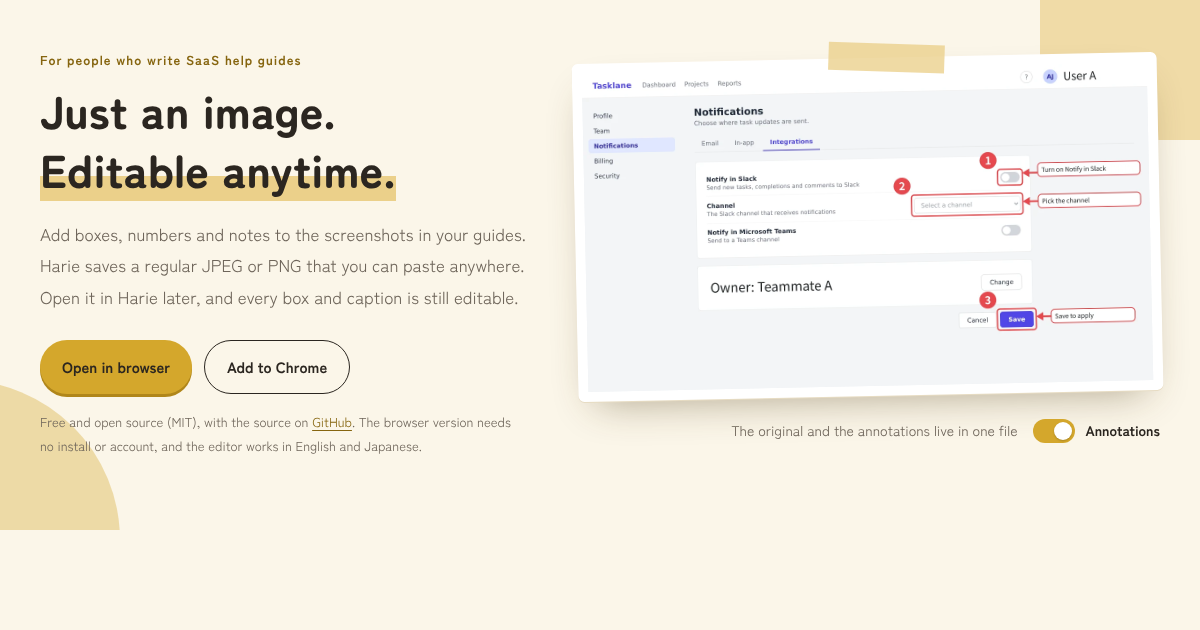
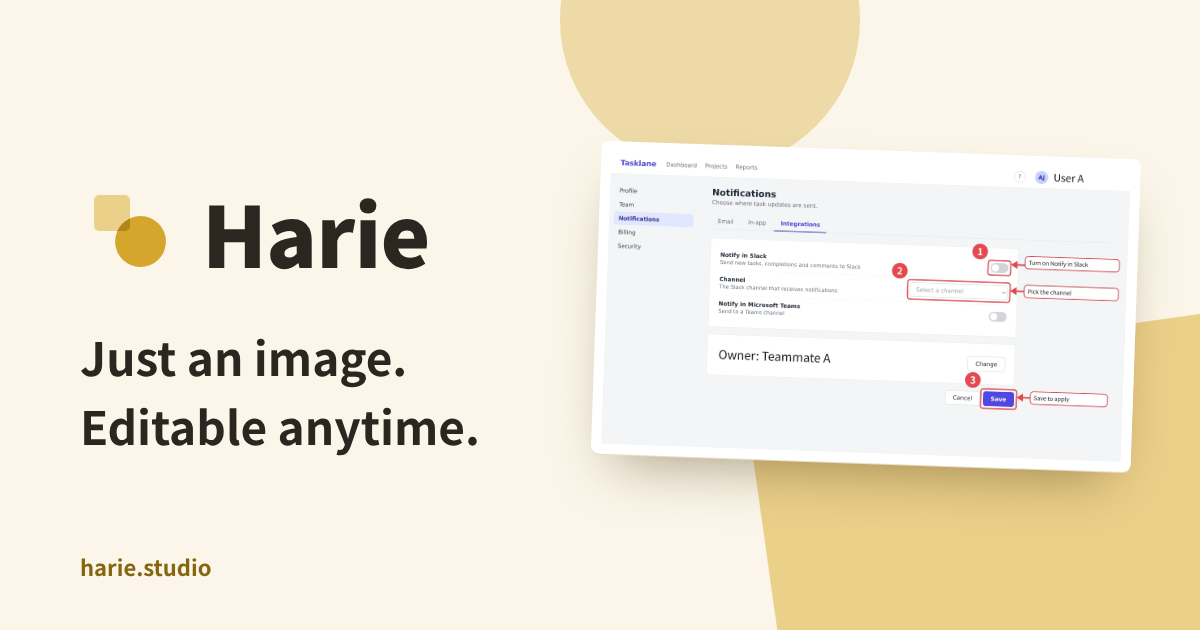
feat(site): OGP 画像を Chrome ウェブストアのプロモーション タイルのテイストで作り直す
ロゴとキャッチコピー、注釈を付けた見本の画面を 1200×630 に置き、pnpm --filter @harie/site og で作り直せるようにする。og:image の大きさと代替テキストも付ける。

Claude-Session: https://claude.ai/code/session_01GF6HAVfDLPu3oGNENvnbi8

diff --git a/apps/site/src/index.html b/apps/site/src/index.html
@@ -21,6 +21,9 @@
     />
     <meta property="og:url" content="https://harie.studio/" />
     <meta property="og:image" content="https://harie.studio/assets/og.png" />
+    <meta property="og:image:width" content="1200" />
+    <meta property="og:image:height" content="630" />
+    <meta property="og:image:alt" content="Harie のロゴと「ただの画像なのに、何度でも直せる。」、注釈を付けた画面の見本" />
     <meta name="twitter:card" content="summary_large_image" />
     <link rel="alternate" hreflang="ja" href="https://harie.studio/" />
     <link rel="alternate" hreflang="en" href="https://harie.studio/en/" />

diff --git a/apps/site/src/en/index.html b/apps/site/src/en/index.html
@@ -21,6 +21,9 @@
     />
     <meta property="og:url" content="https://harie.studio/en/" />
     <meta property="og:image" content="https://harie.studio/assets/og.en.png" />
+    <meta property="og:image:width" content="1200" />
+    <meta property="og:image:height" content="630" />
+    <meta property="og:image:alt" content="The Harie logo, the line Just an image. Editable anytime., and an annotated sample screen" />
     <meta name="twitter:card" content="summary_large_image" />
     <link rel="alternate" hreflang="ja" href="https://harie.studio/" />
     <link rel="alternate" hreflang="en" href="https://harie.studio/en/" />

diff --git a/apps/site/README.md b/apps/site/README.md
@@ -30,7 +30,7 @@ node apps/site/scripts/serve.mjs
 | `src/main.js` | 注釈の付け外しスイッチ、MCP の登録方法のタブ、コマンドのコピー（両言語で共通。文言は HTML 側に持つ） |
 | `src/assets/tasklane-notifications.harie.png`・`.en.harie.png` | 見本の Harie ファイル。架空の SaaS「Tasklane」の画面（日本語は `apps/mcp/eval/fixtures/notifications.png`、英語は `demo/notifications.en.html` を 1280×720 で撮ったもの）に注釈を付け、氏名をダミーに置き換えたもの。LP からダウンロードしてエディタで開ける |
 | `src/assets/demo-*.webp`・`pii-*.webp`（英語版は `*.en.webp`） | 見本ファイルから作った表示用の画像（注釈あり・なし、個人情報の加工前・後の切り抜き） |
-| `src/assets/og.png`・`og.en.png` | SNS 用の画像（1200×630）。各言語のヒーローを撮ったもの |
+| `src/assets/og.png`・`og.en.png` | SNS 用の画像（1200×630）。Chrome ウェブストアのプロモーション タイルと同じテイストで、`pnpm --filter @harie/site og` で作り直せる（`HARIE_CHROMIUM_PATH` でブラウザを指定できる） |
 
 ## 検索エンジンと AI 向けの情報
 
